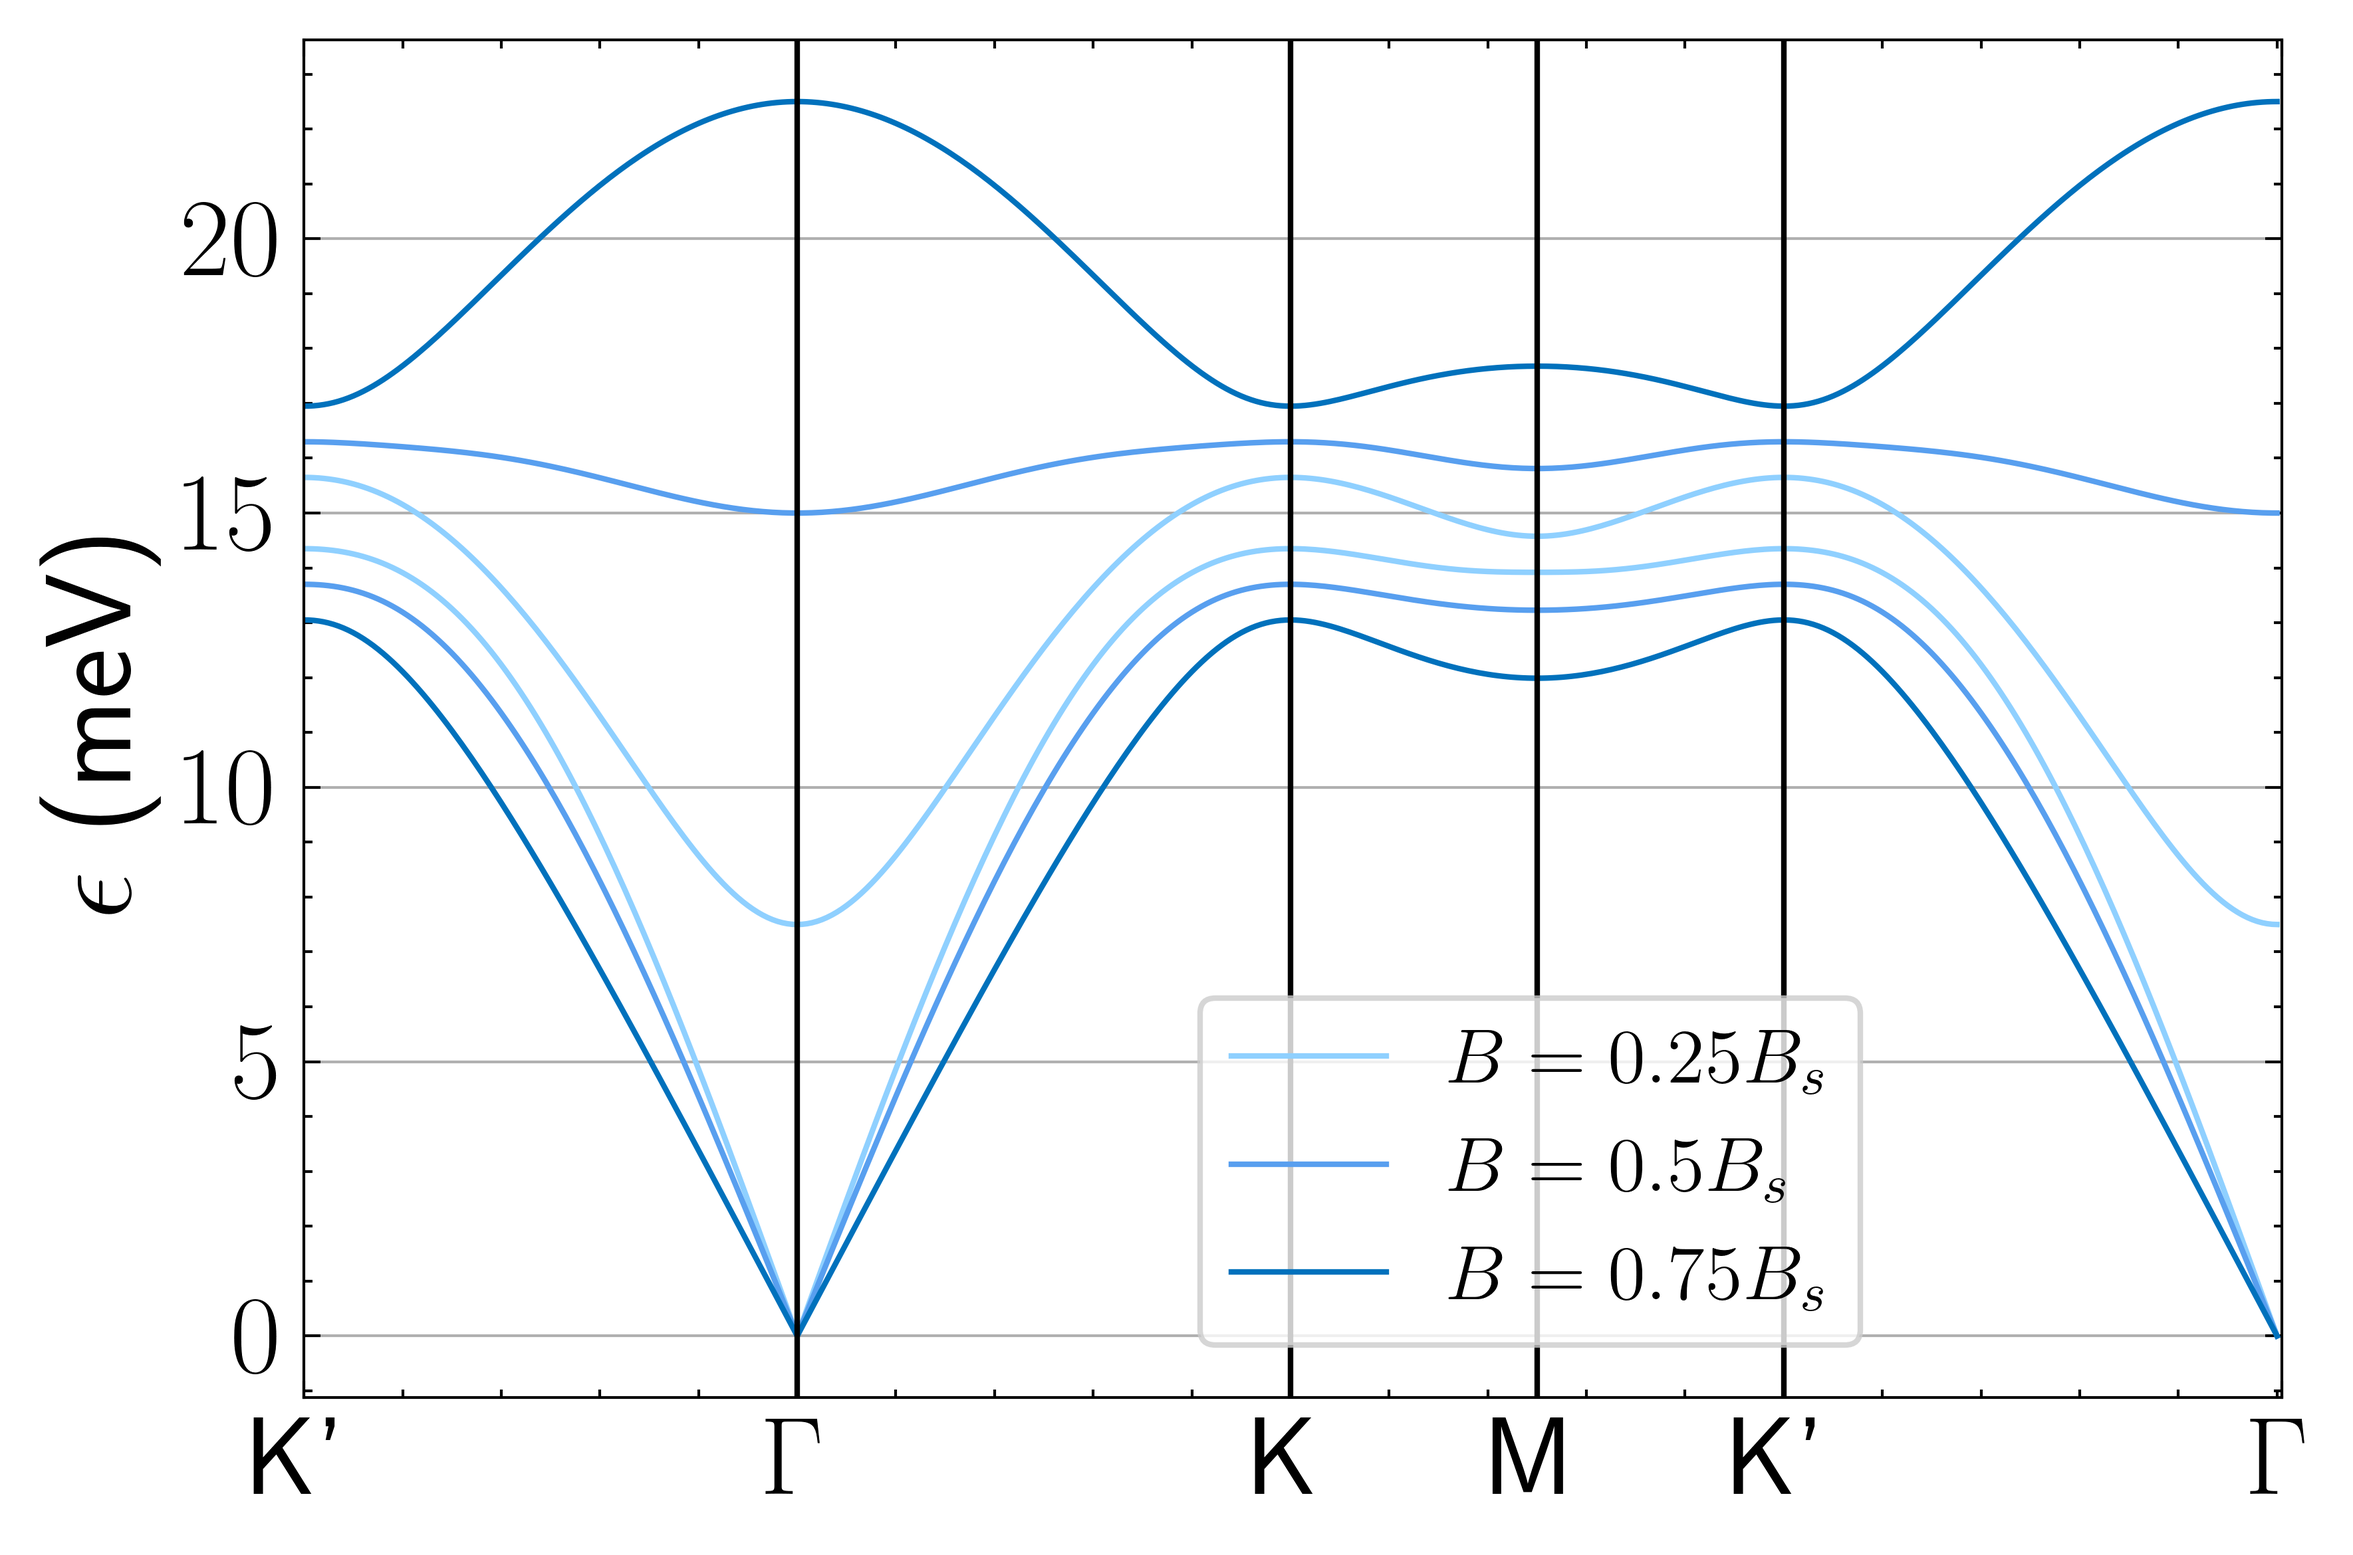
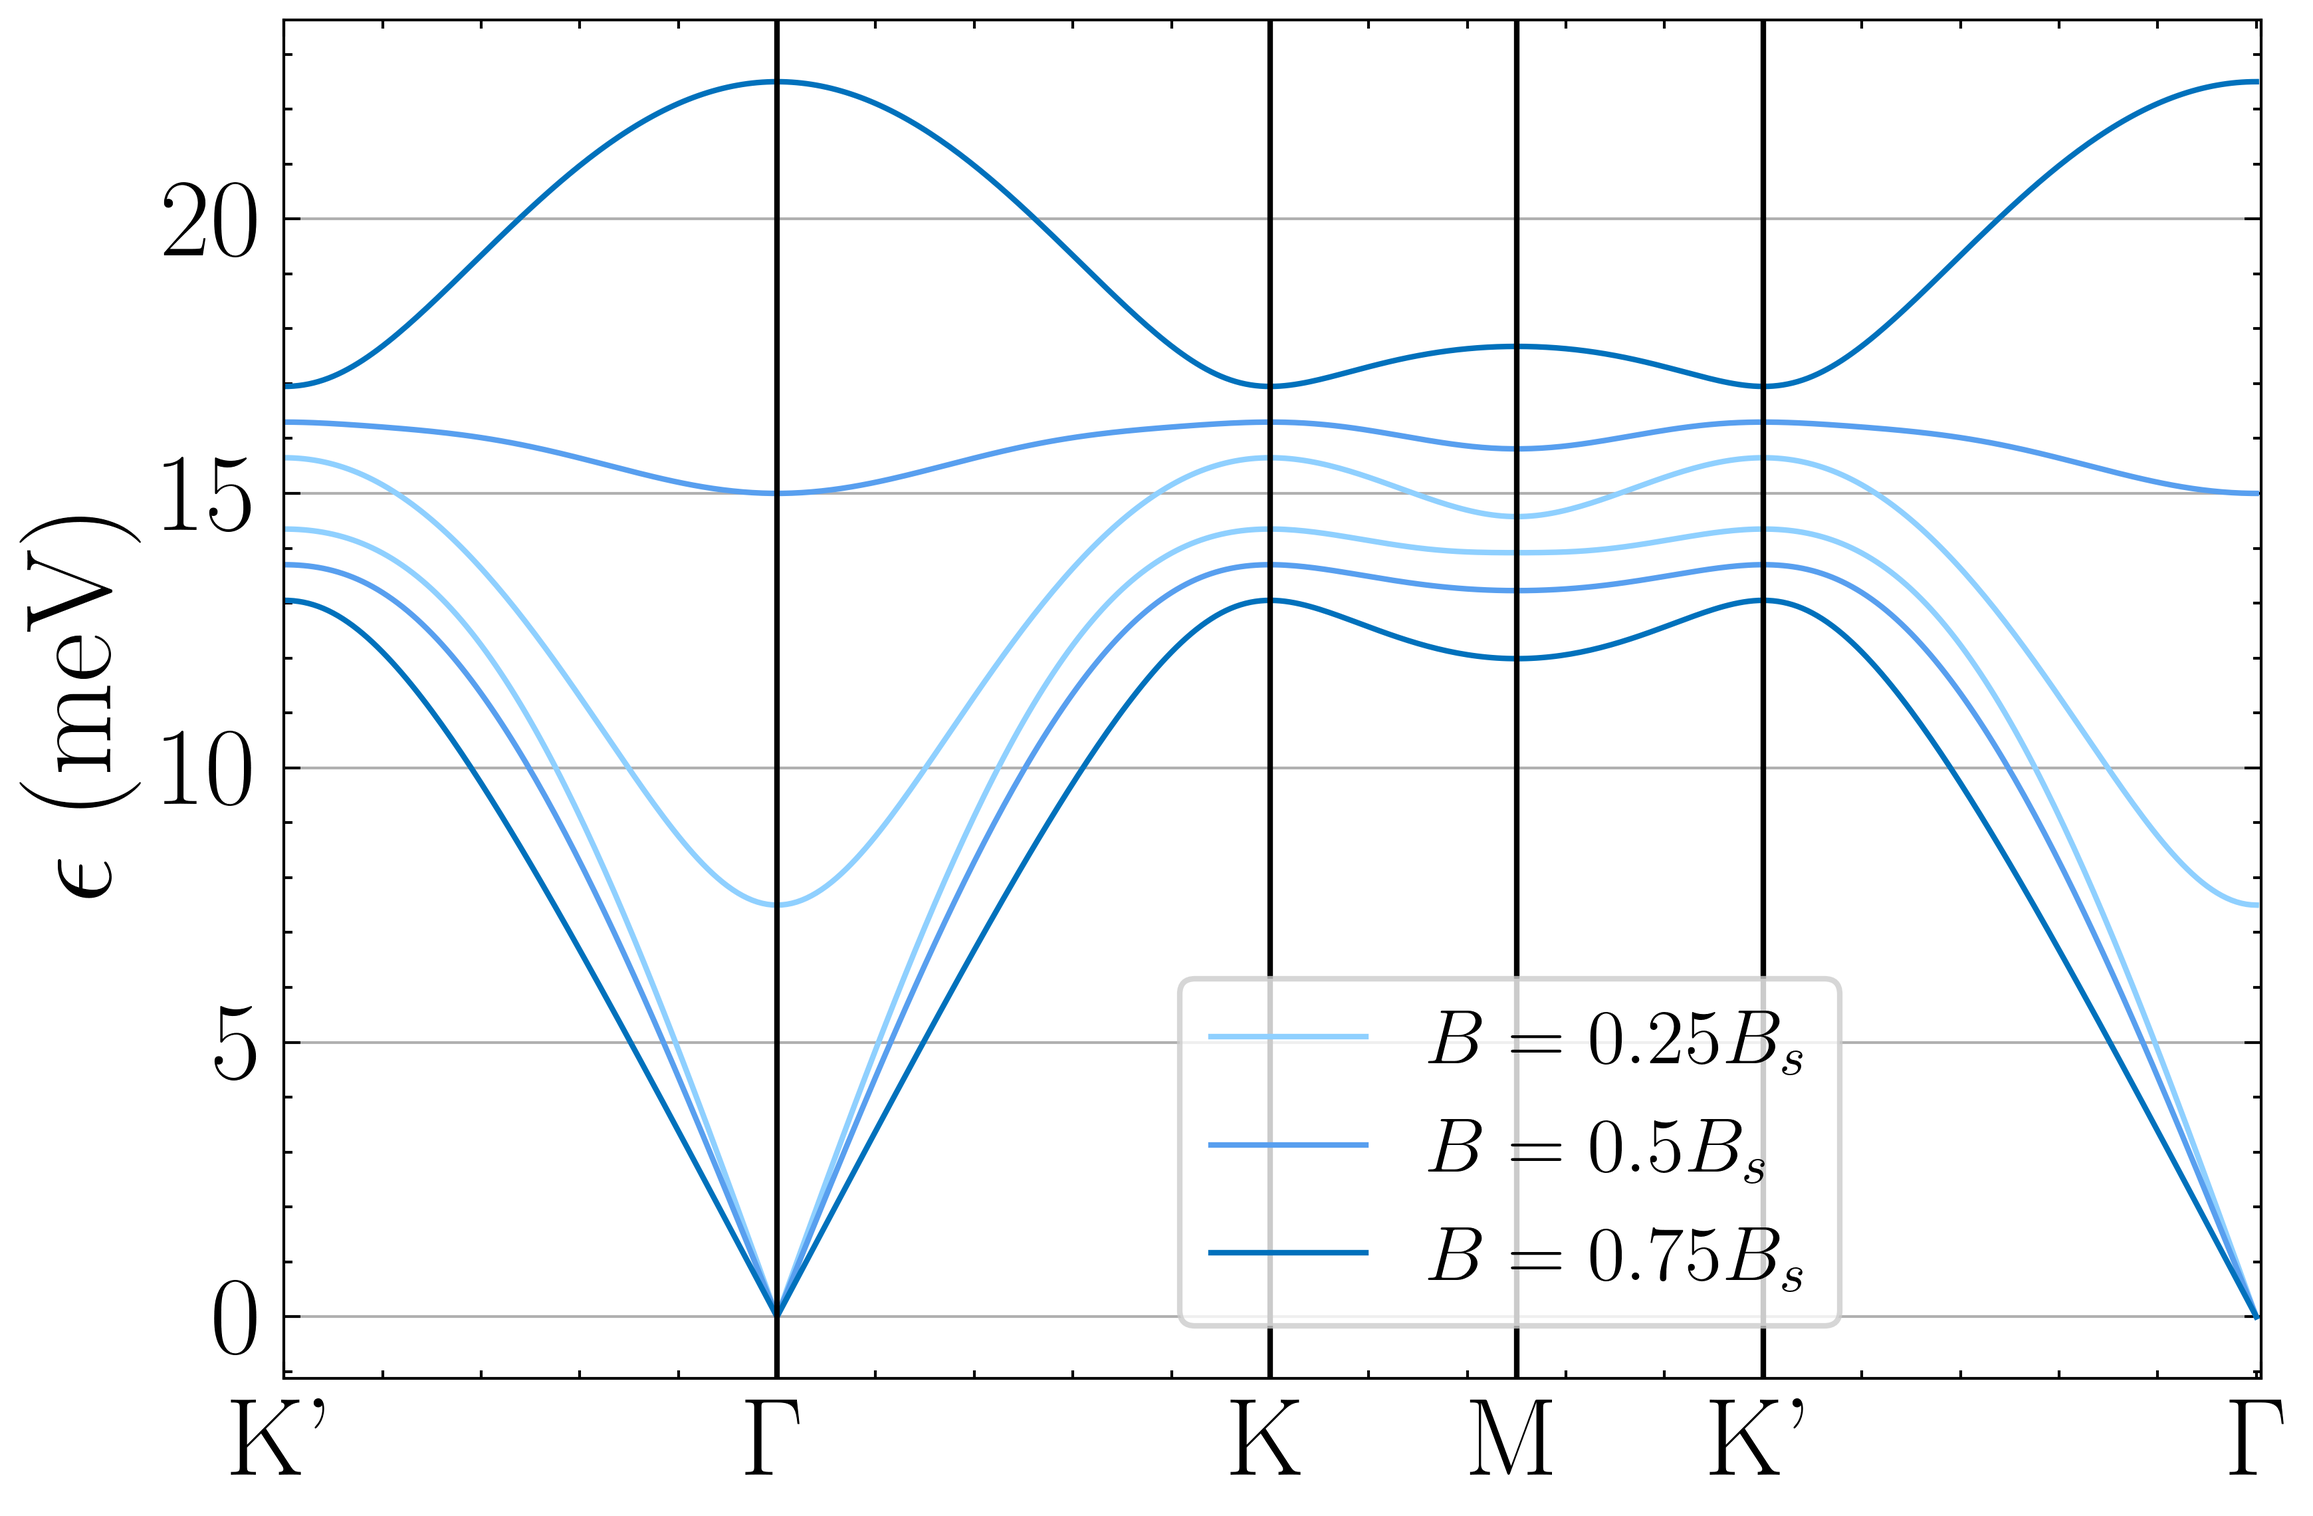
generate some figures

diff --git a/canted_curvature.py b/canted_curvature.py
@@ -315,7 +315,7 @@ def get_berry_curvature_exact(J=1, D=0.1, S=5/2, B0=0.5):
 J = 1 # meV
 D = 0.1 # D/J = 0.1
 S = 5 # spin number
-s = 0.6 # saturation field ratio (sin\theta) = B/Bs
+s = 0.75 # saturation field ratio (sin\theta) = B/Bs
 
 # %%
 # s_values = [0.25, 0.50, 0.75, 0.99]
@@ -352,7 +352,7 @@ with plt.style.context(['science','ieee']):
     fig.subplots_adjust(top=0.95, bottom=0.15, right=0.99)
 
     for i in range(2):
-        pc = axes[i].pcolormesh(kx, ky, exact[5][i], cmap="jet",) 
+        pc = axes[i].pcolormesh(kx, ky, exact[-1][i], cmap="jet",) 
         
         plot(honeycomb_bz_x, honeycomb_bz_y, ax=axes[i], linestyle='-', linewidth=1, color='k')
 
@@ -374,4 +374,31 @@ with plt.style.context(['science','ieee']):
 # %%#
 print(bz_integration_honeycomb(exact[9][1])/(2*np.pi))
 
+# %%
+with plt.style.context(['science','ieee']):
+    fig, axes = panel(figsize=(4,3), nrows=1, ncols=1, width_ratios=[1], height_ratios=[1], hspace=0.1, wspace=0.4)
+
+    fig.subplots_adjust(top=0.95, bottom=0.15, right=0.99)
+
+    for i in range(1):
+        pc = axes.pcolormesh(kx, ky, exact[-1][i-1], cmap="jet",) 
+        
+        plot(honeycomb_bz_x, honeycomb_bz_y, ax=axes, linestyle='-', linewidth=1, color='k')
+
+        clb = fig.colorbar(pc, ax=axes, shrink=0.9)
+        clb.ax.set_title(color_bar_title[i-1], loc='left', fontsize=16, pad=pads[i])
+        clb.ax.tick_params(labelsize=16)
+
+        axes.set_axis_on() # make sure the axis is on
+        axes.grid(False) # make sure the grid is off
+
+        axes.set_xticks([-0.5 * 2 * np.pi, 0, 0.5 * 2 * np.pi])
+        axes.set_xticklabels(['-1', '0', '1'], fontsize=16)
+        axes.set_yticks([-0.5 * 2 * np.pi, 0, 0.5 * 2 * np.pi])
+        axes.set_yticklabels(['-1', '0', '1'], fontsize=16)
+
+        axes.set_xlabel(r'$k_x(\pi/a)$', fontsize=18)
+        axes.set_ylabel(r'$k_y(\pi/a)$', fontsize=18)
+    plt.show()
+    fig.savefig('figures/berry_curvatures/canted_berry_curvature_lower_exact.png', dpi=300, bbox_inches='tight')
 # %%

diff --git a/canted_energy_band.py b/canted_energy_band.py
@@ -216,10 +216,10 @@ def canted_energy_expansion_D(k,J=1.54,D=0.1,S=5/2,s=0.6):
     return energy
 
 #%%
-J = 1 `` # meV
+J = 1  # meV
 D = 0.1 # D/J = 0.1
 S = 5/2 # spin number
-s = 0.6 # saturation field ratio (sin\theta) = B/Bs
+s = 0.75 # saturation field ratio (sin\theta) = B/Bs
 
 k0 = get_kvectors(-1*K1, Gamma)
 k1 = get_kvectors(Gamma, K1)
@@ -236,7 +236,7 @@ print(k0)
 # D_values = np.array([0, 0.0125, 0.025, 0.05, 0.075, 0.1,0.2])
 # magnon_bands = [get_band(canted_energy_expansion_D, k_vectors,J=J,D=D,S=S,s=s) for s in s_values for D in D_values]
 #%%
-s_values = [0.25, 0.5, 0.75, 1.0]
+s_values = [0.25, 0.5, 0.75]
 magnon_bands = [get_band(canted_energy, k_vectors,J=J,D=D,S=S,s=s) for s in s_values]
 
 K2_Gamma = get_path(k0)
@@ -274,9 +274,3 @@ with plt.style.context('science'):
     plt.show()
 #fig.savefig('figures/canted_energy_bands/canted_afm_band_structure.png', dpi=600 ,bbox_inches='tight')
 #
-
-# %%
-print(np.min(magnon_bands[-1][1]))
-# %%
-print(k3)
-# %%
